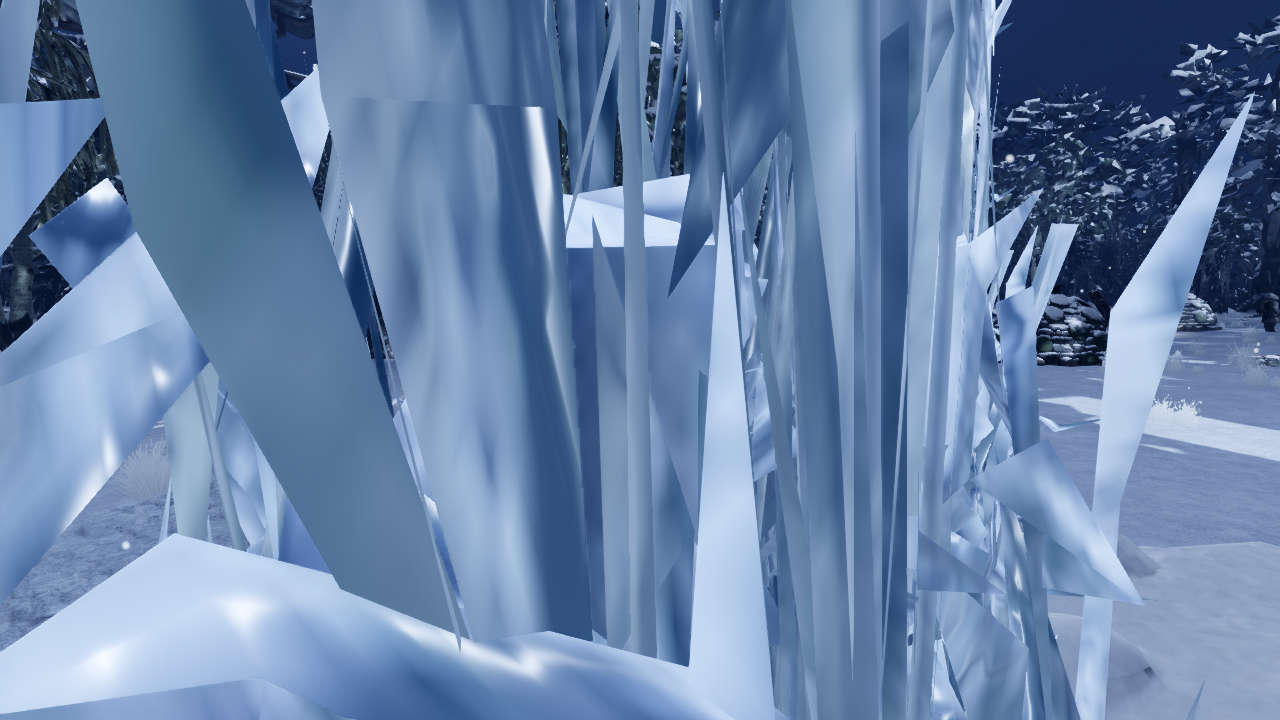
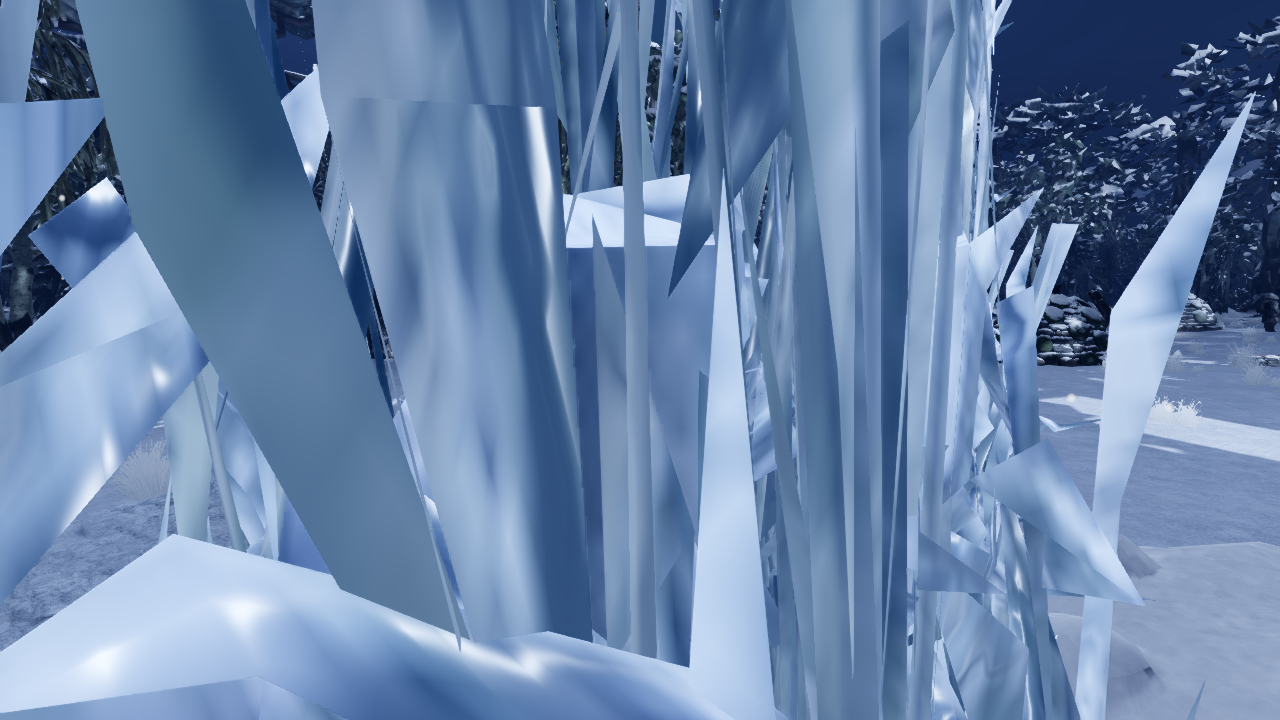
Add look pass 5 pairs, verdict and the handoff note
Claude-Session: https://claude.ai/code/session_01F3vrUNPtFufos1qRX6SLeD

diff --git a/docs/art/LOOK_PASS.md b/docs/art/LOOK_PASS.md
@@ -199,3 +199,26 @@ Pairs: `docs/screens/look4_after_*.png`; before = the matching `look3_after_*` /
 ## Before/after cameras (pass 5)
 
 `tools/art/look5_shots.sh before|after [filter]`, 1280x720, `--shot-nohud`; pairs in `docs/screens/look5_{before,after}_*.png`. The gallery's veil cameras stand inside the veil, so each veil also has a camera 6-7 m out.
+
+| pair | area / state | camera | primitives before → after (lavapipe, tier 1) |
+|---|---|---|---|
+| thornwold_drove_road_rime (gallery camera, inside the road plug) | thornwold rime | 318.0,35.6,-315.0,-67.7,-4.0,70 | 5.21 M → 5.31 M |
+| thornwold_hedge_veil_rime (gallery camera, inside the veil) | thornwold rime | 440.0,39.4,-325.0,78.9,-4.0,70 | 2.41 M → 2.57 M |
+| veil_thornwold_front (before taken 2 m further back, inside a hedge line) | thornwold rime | 435.4,39.38,-322.4,-60.5,6.0,70 | 3.45 M → 2.60 M |
+| veil_tarnhall_front | tarnhall rime | 224.5,26.0,-331.6,112.0,4.0,65 | |
+| veil_reach_front | shepherds_reach rime | 648.1,78.45,-356.4,-23.0,4.0,65 | |
+| veil_saltfell_front | saltfell_steading rime | 2.6,23.7,-13.5,22.0,4.0,65 | |
+| tarnhall_long_table_thaw | tarnhall thaw | 197.0,26.0,-327.4,89.2,-4.0,70 | |
+| reach_sheilings_thaw | shepherds_reach thaw | 604.0,69.5,-306.0,18.4,-4.0,70 | |
+| coldwell_spring_thaw | coldwell thaw | 915.5,160.4,-474.5,-61.7,-24.0,60 | |
+| coldwell_river_dead_rime (after only) | coldwell rime | 757.9,97.5,-397.0,32.1,-6.0,60 | |
+
+The Tarnhall and Reach veil afters were taken before the last mist change (it is a lighter frost-white now, as in the Thornwold and Saltfell shots).
+
+## Verdict and what is still open (pass 5)
+
+- **Fixed for real:** the frozen thorn. It is branching wood with thorns and snow, from inside the plug and from across the ring. The veils have a body, a frame and a region each. The Long Table, the long fires, the spring and the river dead no longer show a primitive or a bind pose.
+- **Draw cost: the 2.5 M target is missed by 3% at the hedge_veil camera** (2.57 M; it was 2.41 M with the Tripo section). The modelled section is 19k triangles close up against 3k; it is held to 11 m and casts no shadow. The drove-road view is unchanged at 5.3 M and that is trees, not thorn. Next step if it matters on the GPU: a 9k middle mesh between 6 m and 13 m.
+- **Not looked at in game:** the Lowe, Kettle and Coldwell veils (sod, sheet ice, spring ice), the veils from edge-on, the salt pan, woodpile, net frame and rime spike in place (their Blender renders were checked), the masks on their pegs, the ewes moving (stills only; the test proves they walk and stay tethered), the spring in RIME.
+- **Known rough edges:** snow lumps on the thorn stems still read a little regular close up; bark stretches on the thickest stems; the veil's refraction was only seen under lavapipe; the ewes' head swing is a vertex bend, not a rig, and their legs do not step when they amble.
+- **Still wanted from Tripo when it is allowed:** rigged ewes. The eight queued props are no longer needed.

diff --git a/docs/handoffs/live/INBOX_lookpass.md b/docs/handoffs/live/INBOX_lookpass.md
@@ -1,0 +1,17 @@
+# Inbox from the look-pass agent (`art/look-pass-5`)
+
+## 2026-11-11: look pass 5 at a stopping point, main merged in
+
+- **Read:** `docs/art/LOOK_PASS.md`, "Look pass 5" (what changed, rules, cameras, verdict).
+- **Done:** modelled frozen thorn (hedges, heap, ThornWall); frost veils with volume, a rimed frame and per-region dressing; modelled props and the Long Table's places; carved masks; posed river dead (`PoseHold`), the spring and its kerb, a THAW face for the wellhead; grazing, ambling ewes (`FlockWander`); suite `look5`.
+- **Not done:** no in-game look at the Lowe, Kettle and Coldwell veils, the edge-on veil views, several props in place, the pegs, or the spring in RIME. Thornwold's hedge_veil view is 2.57 M primitives against a 2.5 M target.
+- **Resume:**
+  ```
+  BPY=<scratchpad>/bpyenv/bin/python
+  $BPY tools/art/procedural/thorn_rime.py      # or veil_frame.py, kit_props.py, masks.py
+  godot --headless --path . --import
+  tools/art/look5_shots.sh after veil_lowe     # then veil_kettle, veil_coldwell, _side, coldwell_spring_rime
+  tools/test.sh look5
+  ```
+- **For the GPU worker:** please re-run the v2 gallery; the veil cameras stand inside the veils, so add the `veil_*_front` cameras from `tools/art/look5_shots.sh`. Check the heart sheet's refraction and the thorn's cost on real hardware.
+- **Crossed lines, small:** `area_builder.gd` (landmark `"pose"`, the flock keeper), generators for Thornwold, Tarnhall, the Reach and Coldwell (props and landmarks only, `--keep-terrain`), `hall.gdshader` (`graze_*`).
